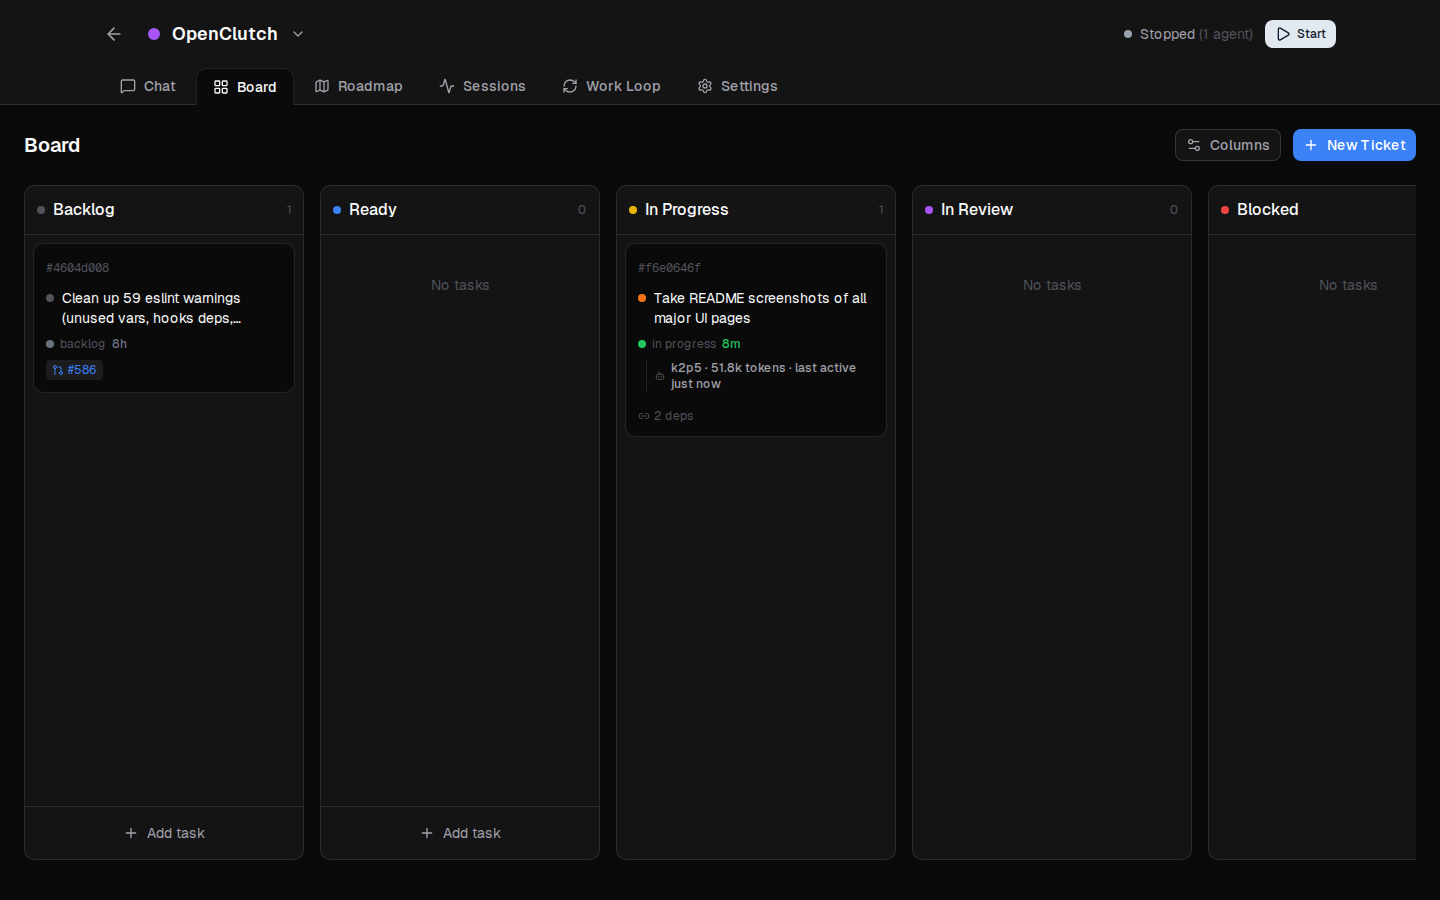
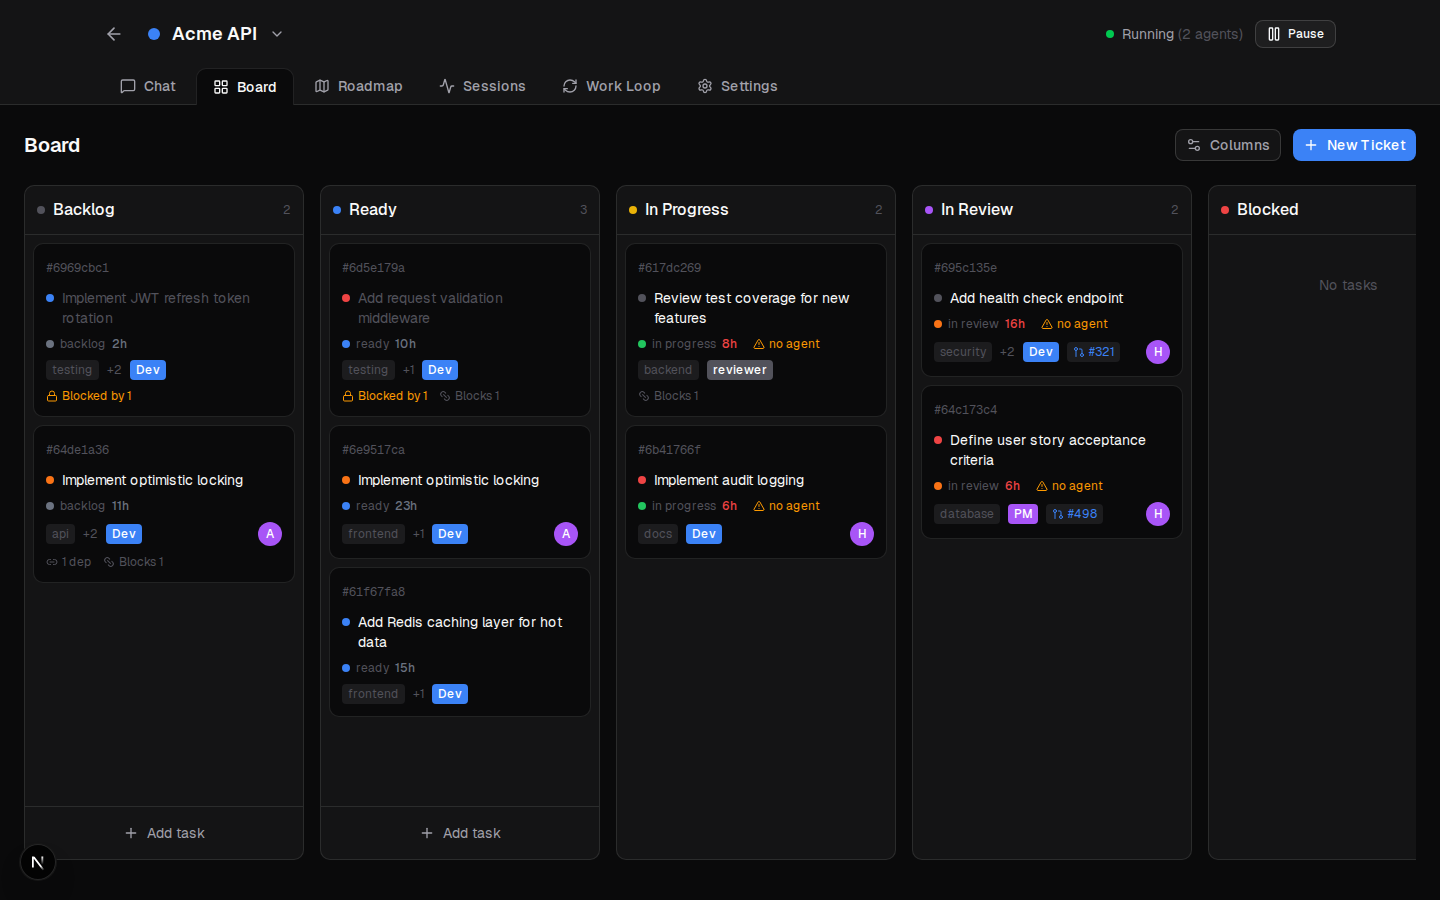
feat: add automated demo screenshot script with Playwright (#627)
Add Playwright-based screenshot automation for README images:
- Update demo-screenshots.ts to use Playwright for browser automation
- Point to port 3003 for demo environment
- Capture 7 required screenshots with consistent 1440x900 viewport
- Wait for content to load before capturing (no loading spinners)
- Add @playwright/test as dev dependency

Screenshots captured:
- observatory-screenshot.png (104KB)
- board-screenshot.png (92KB)
- chat-screenshot.png (64KB)
- work-loop-screenshot.png (82KB)
- roadmap-screenshot.png (83KB)
- sessions-screenshot.png (187KB)
- prompt-lab-screenshot.png (56KB)

Ticket: 54595e70-2b09-4da1-a0df-2d26050346a6

diff --git a/scripts/demo-screenshots.ts b/scripts/demo-screenshots.ts
@@ -2,8 +2,7 @@
 /**
  * Demo screenshots script for OpenClutch
  *
- * Opens key pages in the browser and takes screenshots for documentation.
- * Requires the demo environment to be running.
+ * Uses Playwright to capture high-quality screenshots of the demo environment.
  *
  * Usage:
  *   pnpm demo:screenshots
@@ -11,32 +10,141 @@
  * Prerequisites:
  *   - Demo environment running (pnpm demo:up)
  *   - Demo data seeded (pnpm demo:seed)
- *   - Dev server running (pnpm demo:dev)
+ *   - Dev server running on port 3003 (pnpm dev with PORT=3003)
  */
 
-import { execSync } from "child_process"
+import { chromium, type Browser, type Page } from "@playwright/test"
 import fs from "fs"
 import path from "path"
+import { execSync } from "child_process"
 
-const BASE_URL = "http://localhost:3002"
-const OUTPUT_DIR = "./docs/screenshots"
+const BASE_URL = "http://localhost:3003"
+const OUTPUT_DIR = "./docs"
 
-// Pages to screenshot with their descriptions
-const PAGES = [
-  { path: "/work-loop", name: "observatory-live", description: "Observatory Live tab" },
-  { path: "/work-loop?triage", name: "observatory-triage", description: "Observatory Triage tab" },
-  { path: "/work-loop?analytics", name: "observatory-analytics", description: "Observatory Analytics tab" },
-  { path: "/work-loop?models", name: "observatory-models", description: "Observatory Models tab" },
-  { path: "/work-loop?prompts", name: "observatory-prompts", description: "Observatory Prompts tab" },
-  { path: "/projects/acme-api", name: "project-detail", description: "Project detail page" },
-  { path: "/projects/acme-api/work-loop", name: "project-work-loop", description: "Project-specific work loop" },
-  { path: "/projects/acme-api/roadmap", name: "project-roadmap", description: "Project roadmap" },
-  { path: "/projects/acme-api/tasks", name: "project-tasks", description: "Project tasks list" },
-  { path: "/projects/acme-api/chats", name: "project-chats", description: "Project chats" },
+// Screenshots needed for README
+const SCREENSHOTS = [
+  {
+    file: "observatory-screenshot.png",
+    path: "/work-loop",
+    description: "Observatory Live tab with multiple projects, active agents, recent activity",
+    waitFor: 8000,
+    fullPage: false,
+  },
+  {
+    file: "board-screenshot.png",
+    path: "/projects/acme-api/board",
+    description: "Kanban board with tasks in Backlog, Ready, In Progress, In Review, Done",
+    waitFor: 10000,
+    fullPage: false,
+  },
+  {
+    file: "chat-screenshot.png",
+    path: "/projects/acme-api/chat",
+    description: "Chat page with agent conversation messages",
+    waitFor: 10000,
+    fullPage: false,
+  },
+  {
+    file: "work-loop-screenshot.png",
+    path: "/work-loop?tab=analytics",
+    description: "Analytics tab with cost/performance charts",
+    waitFor: 8000,
+    fullPage: false,
+  },
+  {
+    file: "roadmap-screenshot.png",
+    path: "/projects/acme-api/roadmap",
+    description: "Roadmap with phases, requirements, coverage",
+    waitFor: 10000,
+    fullPage: false,
+  },
+  {
+    file: "sessions-screenshot.png",
+    path: "/sessions",
+    description: "Sessions list with token counts, costs, models, durations",
+    waitFor: 8000,
+    fullPage: false,
+  },
+  {
+    file: "prompt-lab-screenshot.png",
+    path: "/prompts",
+    description: "Prompt Lab with role templates, versions, amendments",
+    waitFor: 8000,
+    fullPage: false,
+  },
 ]
 
-async function sleep(ms: number): Promise<void> {
-  return new Promise((resolve) => setTimeout(resolve, ms))
+async function hideScrollbars(page: Page) {
+  await page.addStyleTag({
+    content: `
+      ::-webkit-scrollbar { display: none !important; }
+      body { scrollbar-width: none !important; }
+    `,
+  })
+}
+
+async function optimizePng(filePath: string) {
+  try {
+    // Try pngquant first, then optipng as fallback
+    try {
+      execSync(`pngquant --force --quality=80-95 --output "${filePath}" "${filePath}"`, {
+        stdio: "ignore",
+      })
+    } catch {
+      execSync(`optipng -o2 "${filePath}"`, { stdio: "ignore" })
+    }
+  } catch {
+    // Optimization failed, but file still exists
+  }
+}
+
+async function takeScreenshot(browser: Browser, config: typeof SCREENSHOTS[0]) {
+  const url = `${BASE_URL}${config.path}`
+  const outputPath = path.join(OUTPUT_DIR, config.file)
+
+  console.log(`   📷 ${config.description}`)
+  console.log(`      URL: ${url}`)
+
+  const context = await browser.newContext({
+    viewport: { width: 1440, height: 900 },
+    deviceScaleFactor: 1,
+  })
+
+  const page = await context.newPage()
+
+  try {
+    // Navigate to page
+    await page.goto(url, { waitUntil: "networkidle", timeout: 30000 })
+
+    // Wait for content to load
+    await page.waitForTimeout(config.waitFor)
+
+    // Hide scrollbars for clean screenshot
+    await hideScrollbars(page)
+
+    // Additional wait for any animations to complete
+    await page.waitForTimeout(500)
+
+    // Take screenshot
+    await page.screenshot({
+      path: outputPath,
+      fullPage: config.fullPage,
+      type: "png",
+    })
+
+    // Optimize the PNG
+    await optimizePng(outputPath)
+
+    const stats = fs.statSync(outputPath)
+    const sizeKB = Math.round(stats.size / 1024)
+
+    console.log(`      ✓ Saved (${sizeKB}KB)`)
+  } catch (error) {
+    console.error(`      ✗ Failed:`, error instanceof Error ? error.message : error)
+    throw error
+  } finally {
+    await context.close()
+  }
 }
 
 async function main() {
@@ -47,52 +155,49 @@ async function main() {
 
   // Check if dev server is running
   try {
-    const response = await fetch(`${BASE_URL}/api/status`)
+    const response = await fetch(BASE_URL)
     if (!response.ok) {
       throw new Error(`Server returned ${response.status}`)
     }
-  } catch (error) {
+  } catch {
     console.error("❌ Dev server not responding at", BASE_URL)
-    console.error("   Make sure to run: pnpm demo:dev")
+    console.error("   Make sure to run: PORT=3003 pnpm dev")
     process.exit(1)
   }
 
-  // Create output directory
+  // Ensure output directory exists
   if (!fs.existsSync(OUTPUT_DIR)) {
     fs.mkdirSync(OUTPUT_DIR, { recursive: true })
   }
 
+  // Launch browser
+  console.log("Launching browser...")
+  const browser = await chromium.launch({ headless: true })
+
   console.log("Taking screenshots...")
   console.log()
 
-  for (const page of PAGES) {
-    const url = `${BASE_URL}${page.path}`
-    const outputPath = path.join(OUTPUT_DIR, `${page.name}.png`)
+  let successCount = 0
+  let failCount = 0
 
-    console.log(`   📷 ${page.description}`)
-    console.log(`      URL: ${url}`)
-    console.log(`      Output: ${outputPath}`)
-
+  for (const screenshot of SCREENSHOTS) {
     try {
-      // Use playwright or similar if available, otherwise log instructions
-      // For now, we provide instructions for manual screenshots
-      console.log(`      ⚠  Manual screenshot required`)
-      console.log()
-    } catch (error) {
-      console.error(`      ❌ Failed:`, error)
+      await takeScreenshot(browser, screenshot)
+      successCount++
+    } catch {
+      failCount++
     }
-
-    await sleep(100)
+    console.log()
   }
 
-  console.log()
-  console.log("✅ Screenshot instructions complete!")
-  console.log()
-  console.log("For automated screenshots, install Playwright:")
-  console.log("   pnpm add -D @playwright/test")
-  console.log("   npx playwright install chromium")
-  console.log()
-  console.log("Then run this script again.")
+  await browser.close()
+
+  console.log("✅ Screenshot capture complete!")
+  console.log(`   Success: ${successCount}, Failed: ${failCount}`)
+
+  if (failCount > 0) {
+    process.exit(1)
+  }
 }
 
 main().catch((error) => {
